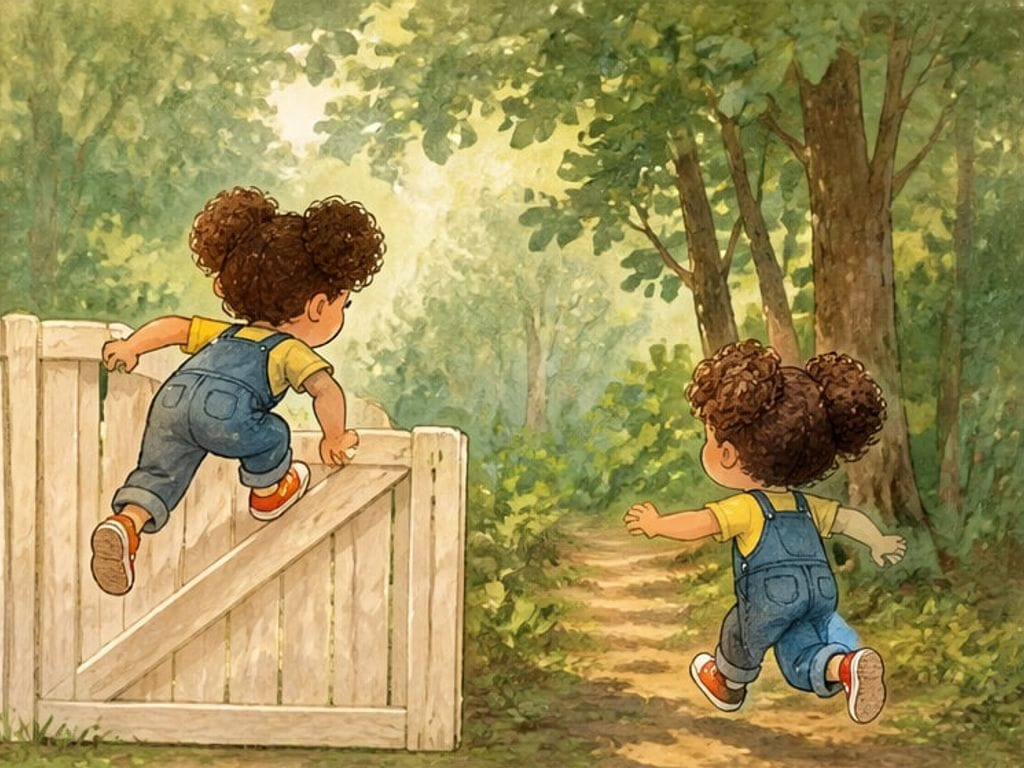
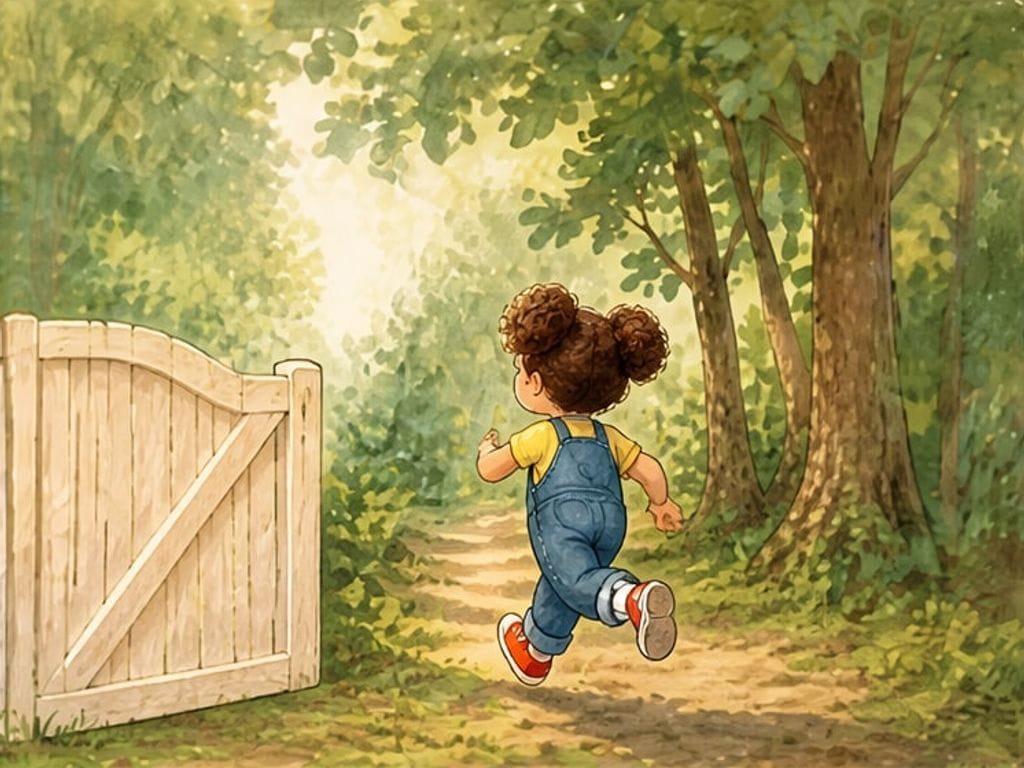
Book 1 page 3: one Julia, running into the woods past the gate (board edit 4, panel 3); only that page changed
Claude-Session: https://claude.ai/code/session_01HPXj2aZicdAuaRBwWuUYwW

diff --git a/docs/illustration.md b/docs/illustration.md
@@ -89,6 +89,10 @@ node tools/push.mjs --images
   node tools/illustrate.mjs edit toby-4 6,7 "In panel 6, the toys shoot up OUT of the playhouse into the open sky..."
   node tools/illustrate.mjs pick toby-4 6=2:6 7=2:7         # panels 6 and 7 of edit 2 (boards/toby-4.2.jpg)
   ```
+  An edit redraws the whole board (the model needs to see it all), but `pick` takes only the panels you name: every other page
+  keeps its picture, byte for byte (push re-uploads them, same hash, same URL). Keep the change short and let the model choose
+  the pose: a long, specific instruction gave a stiff, odd jump (Oct 25, book 1 page 3: two Julias on the gate; the fix that
+  worked was "Julia appears only once: she runs down the path into the woods, with the garden gate behind her").
   The endpoint has no masks, so `edit` passes the board itself as the reference and asks for the same board with only
   those panels changed. It works like inpainting: on Oct 7 the other panels came back almost identical, and the new
   panels match the chapter because the model sees all of it. ~$0.15 an edit. Describe the change in full sentences,
